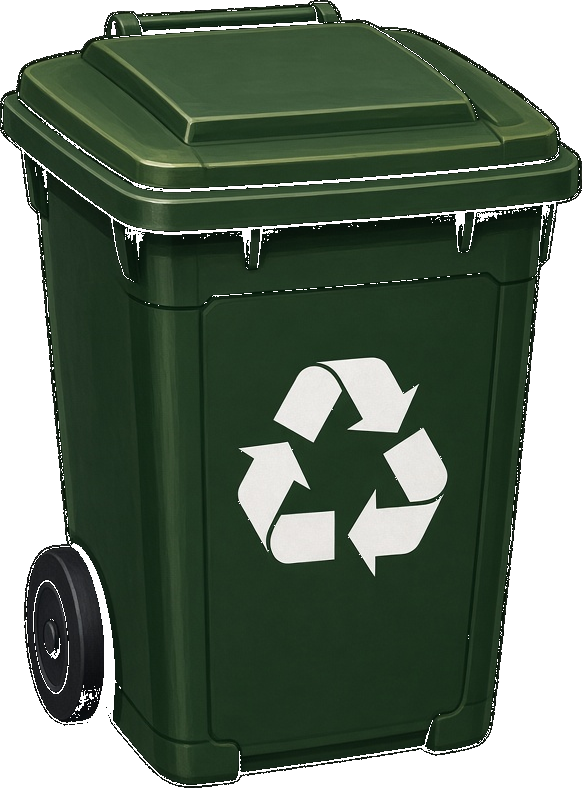
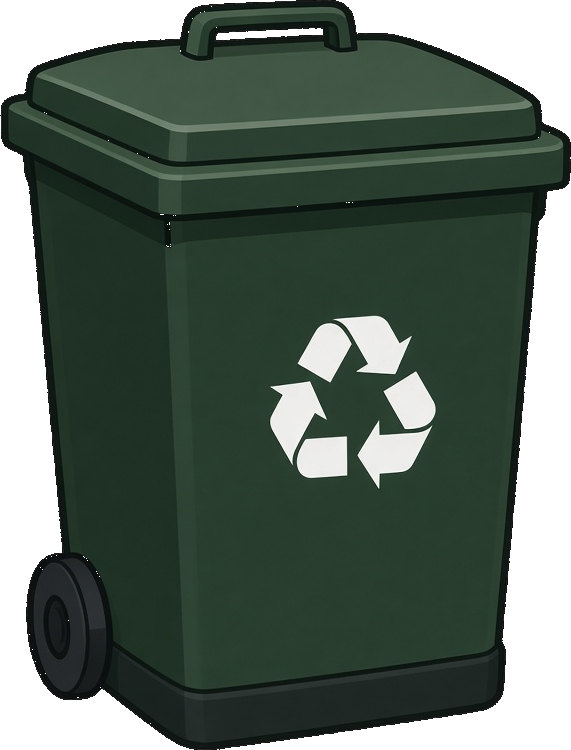
Remake the bin and turn the bench toward the road.
A bench on the right pavement is flipped so it still faces the street.

Changed region(s): [[0.0, 0.0, 1.0, 1.0], [0.387, 0.3987, 0.7741, 0.736], [0.8039, 0.5827, 0.8336, 0.7973]]

diff --git a/game-data.js b/game-data.js
@@ -43,8 +43,8 @@ const EVENTS = [
 const DETAILS = [
   { name: 'lamp', x: 646, y: 1956, w: 150, h: 715 },
   { name: 'postbox', file: 'postbox.png', w: 400, h: 900, cap: 64 },
-  { name: 'bin', file: 'bin.png', w: 500, h: 700, cap: 52 },
-  { name: 'bench', file: 'bench.png', w: 953, h: 493, cap: 36 },
+  { name: 'bin', file: 'bin.png', w: 571, h: 750, cap: 52 },
+  { name: 'bench', file: 'bench.png', w: 745, h: 529, cap: 40 },
   { name: 'tree', file: 'tree.png', w: 555, h: 764, cap: 78 },
   { name: 'board', file: 'board.png', w: 635, h: 940, cap: 58 }
 ];

diff --git a/game.js b/game.js
@@ -177,7 +177,13 @@ function drawDetailZone(x, y, w, h, objectName, side) {
   }
   ctx.restore();
   if (prop.file && prop.img && prop.img.complete && prop.img.naturalWidth) {
-    ctx.drawImage(prop.img, px, py, propW, propH);
+    if (objectName === 'bench' && side === 'right') {
+      ctx.save();
+      ctx.translate(px + propW, py);
+      ctx.scale(-1, 1);
+      ctx.drawImage(prop.img, 0, 0, propW, propH);
+      ctx.restore();
+    } else ctx.drawImage(prop.img, px, py, propW, propH);
     return;
   }
   if (!streetLoaded || prop.x == null) return;

diff --git a/index-new.html b/index-new.html
@@ -72,7 +72,7 @@
     </div>
   </div>
 
-<script src="game-data.js?v=18"></script>
-<script src="game.js?v=61"></script>
+<script src="game-data.js?v=19"></script>
+<script src="game.js?v=62"></script>
 </body>
 </html>

diff --git a/index-new.html.html b/index-new.html.html
@@ -72,7 +72,7 @@
     </div>
   </div>
 
-<script src="game-data.js?v=18"></script>
-<script src="game.js?v=61"></script>
+<script src="game-data.js?v=19"></script>
+<script src="game.js?v=62"></script>
 </body>
 </html>

diff --git a/index.html b/index.html
@@ -72,7 +72,7 @@
     </div>
   </div>
 
-<script src="game-data.js?v=18"></script>
-<script src="game.js?v=61"></script>
+<script src="game-data.js?v=19"></script>
+<script src="game.js?v=62"></script>
 </body>
 </html>
